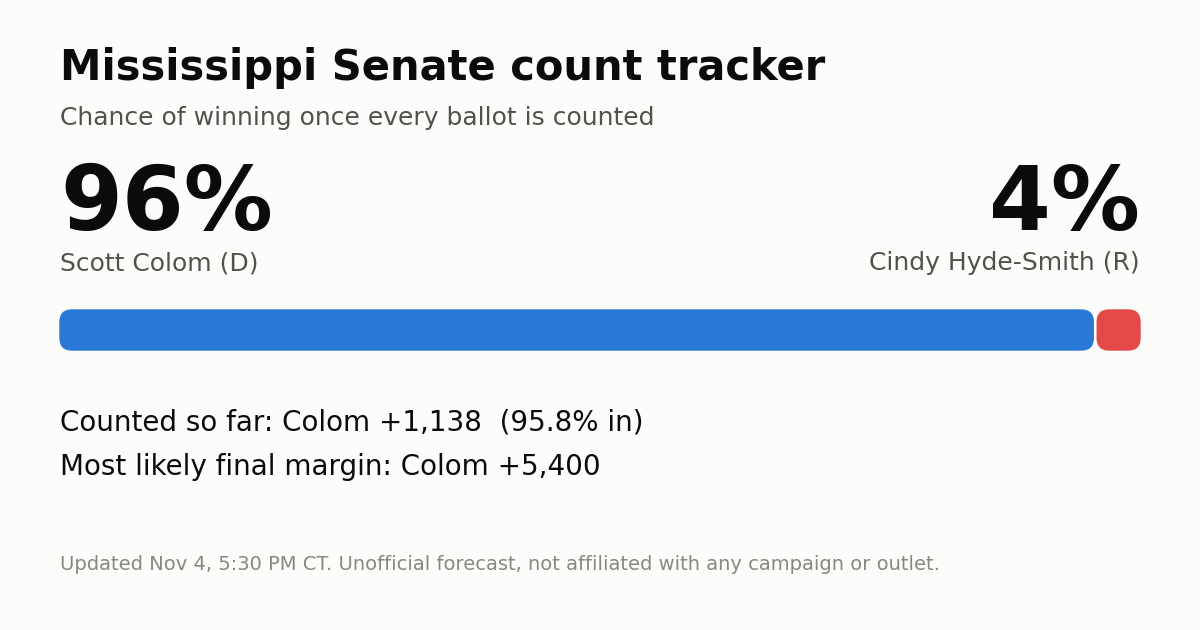
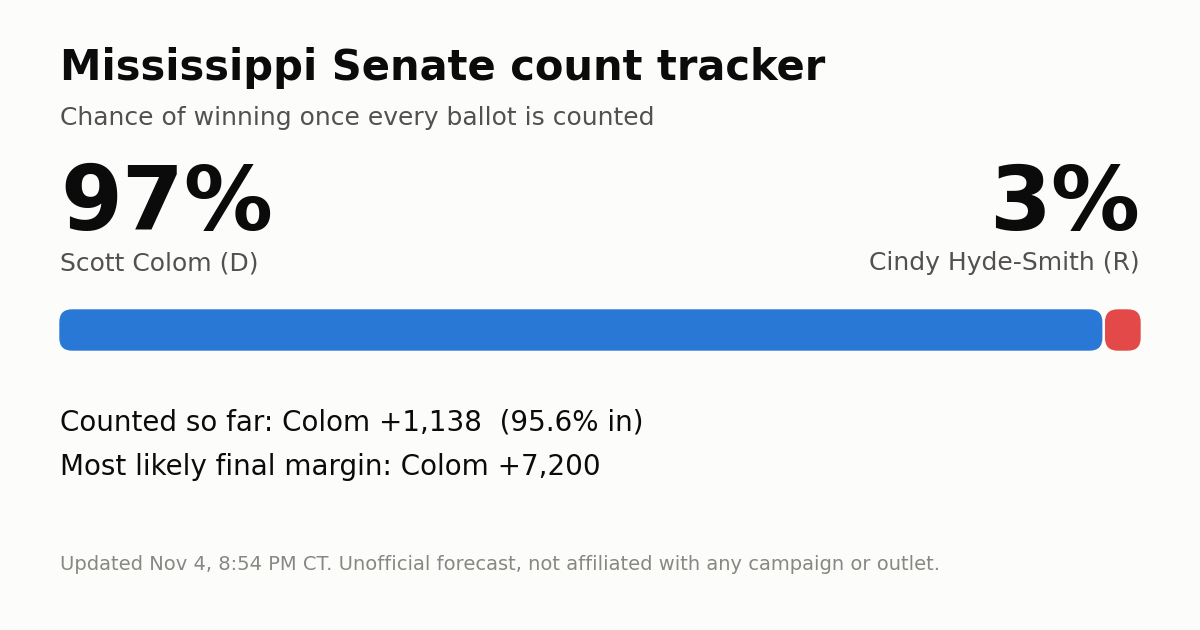
Update 2026-11-04T20:54-06:00

diff --git a/index.html b/index.html
@@ -178,9 +178,10 @@ button:focus-visible,select:focus-visible,input:focus-visible,th[data-k]:focus-v
     <h2 id="h-how">How this works</h2>
     <p class="sub" style="margin-bottom:8px">Three kinds of ballots are still out. For each, the model estimates how many there are, where they are, and which way they lean, then counts them 200,000 different ways to see how often each candidate comes out ahead.</p>
     <ul class="watch">
-      <li><b>Ballots AP still expects</b> (absentee and Election Day ballots not yet counted). Assumed to lean like the votes already counted in the same county, with room to break either way statewide.</li>
-      <li><b>Affidavit (provisional) ballots</b>, cast when a voter's eligibility is questioned at the polls. About 8,000 to 17,000 statewide, roughly half accepted, leaning somewhat more Democratic than their county. Replaced with official county counts as clerks report them.</li>
-      <li><b>Late mail ballots</b> postmarked by Nov. 3 and arriving by Nov. 10. Very few.</li>
+      <li><b>Ballots AP still expects</b> (absentee and Election Day ballots not yet counted). Assumed to lean like the votes already counted in the same county, adjusted by how the batches counted since Election Night have actually leaned, with room to break either way statewide.</li>
+      <li><b>Affidavit (provisional) ballots</b>, cast when a voter's eligibility is questioned at the polls. About 10,000 to 17,000 statewide and about 7 in 10 accepted, based on each county's record in Mississippi's last three federal elections (U.S. Election Assistance Commission data). Assumed to lean somewhat more Democratic than their county. Replaced with official county counts as clerks report them.</li>
+      <li><b>Late mail ballots</b> postmarked by Nov. 3 and arriving by Nov. 10: a share of the about 3,600 the Secretary of State says are still out. Very few.</li>
+      <li><b>The model checks itself.</b> Each time a county reports, the model compares the new votes with what it expected, both how they leaned and how many there were, and adjusts. Early on its starting assumptions carry most of the weight; as more batches come in, the measured results take over.</li>
     </ul>
   </section>
 
@@ -192,7 +193,7 @@ button:focus-visible,select:focus-visible,input:focus-visible,th[data-k]:focus-v
     <a href="https://www.sos.ms.gov/elections-voting">Mississippi Secretary of State</a> ·
     <a href="https://mississippitoday.org/">Mississippi Today</a> ·
     <a href="https://www.mississippifreepress.org/">Mississippi Free Press</a><br>
-    <span id="pagever">Page version 1e491bf9</span>
+    <span id="pagever">Page version 41af7da8</span>
   </footer>
 </div>
 
@@ -209,7 +210,7 @@ function showTip(e, html){ tip.innerHTML = html; tip.style.opacity = 1;
 function hideTip(){ tip.style.opacity = 0; }
 const widthOf = svg => Math.max(280, svg.node().getBoundingClientRect().width || (svg.node().parentNode.clientWidth - 40));
 
-const PAGE_VERSION = "1e491bf9";
+const PAGE_VERSION = "41af7da8";
 fetch("data.json?" + Date.now(), {cache: "no-store"}).then(r => r.json()).then(D => {
   // Browsers can hold an old copy of this page. data.json is always fresh, so if it names a newer page, load that once.
   if (D.page_version && D.page_version !== PAGE_VERSION) {
